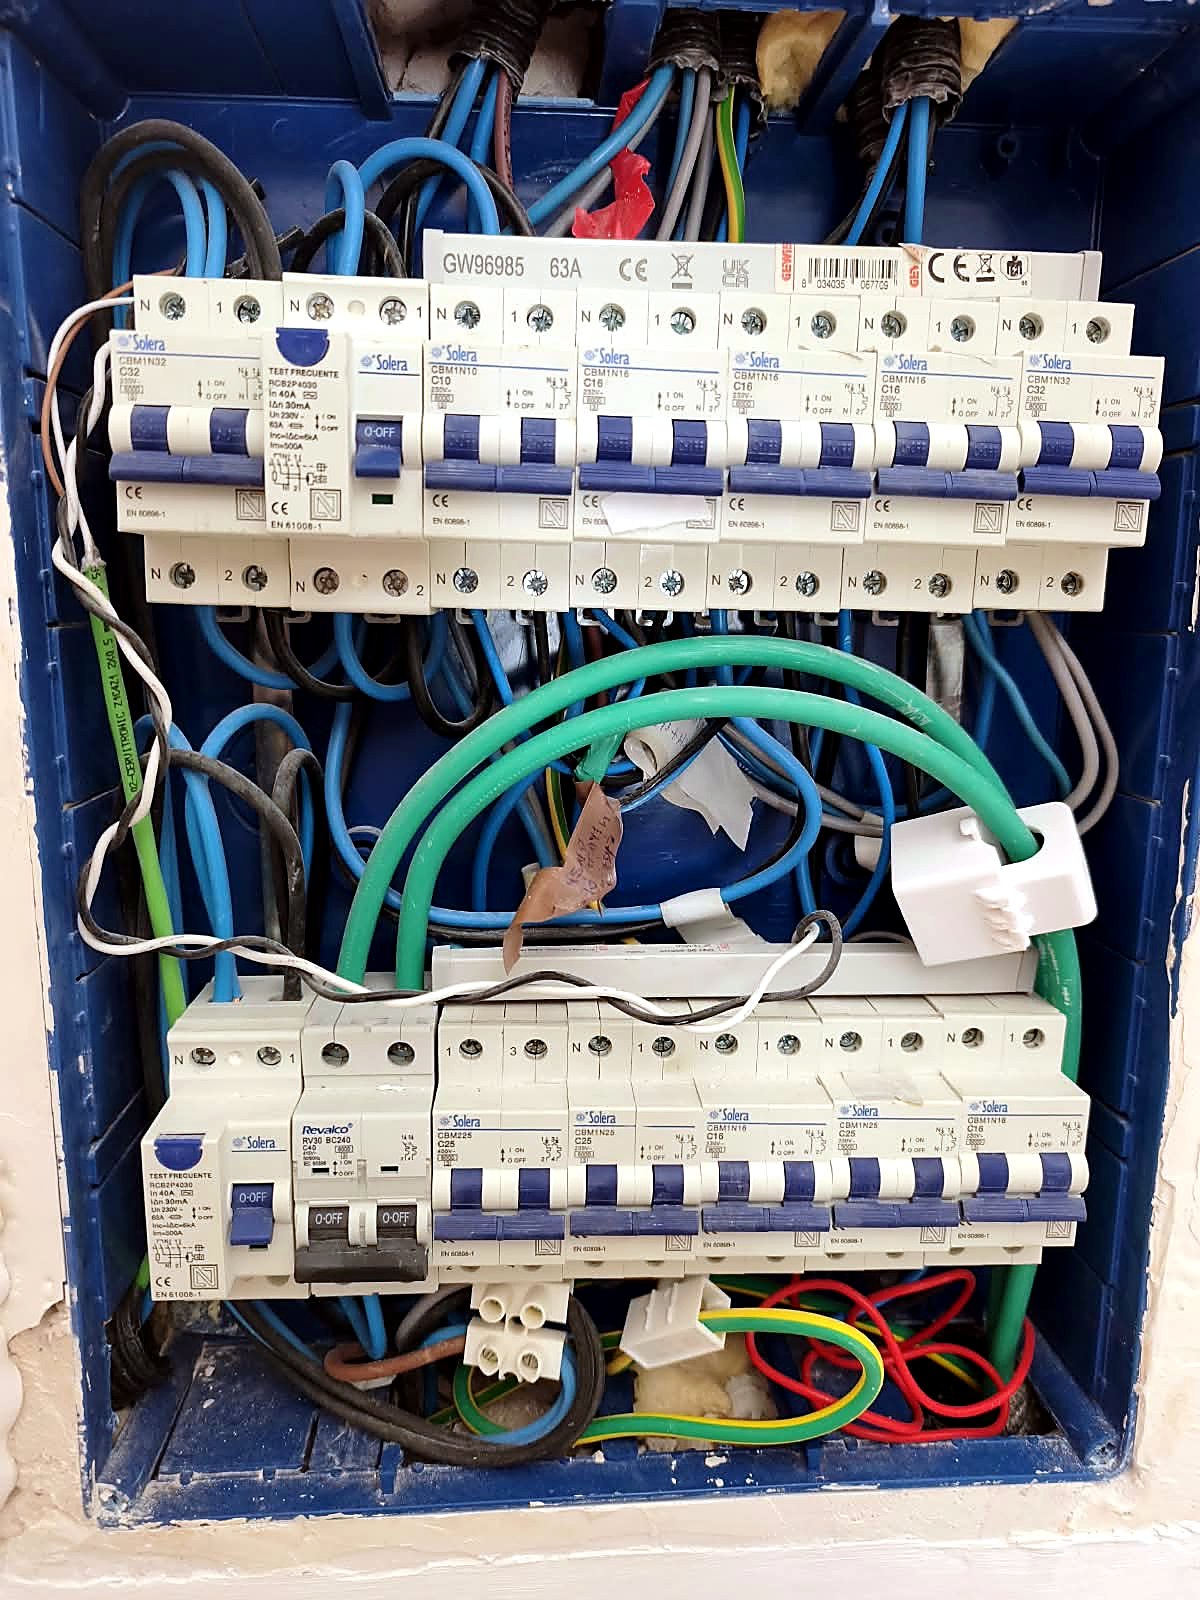
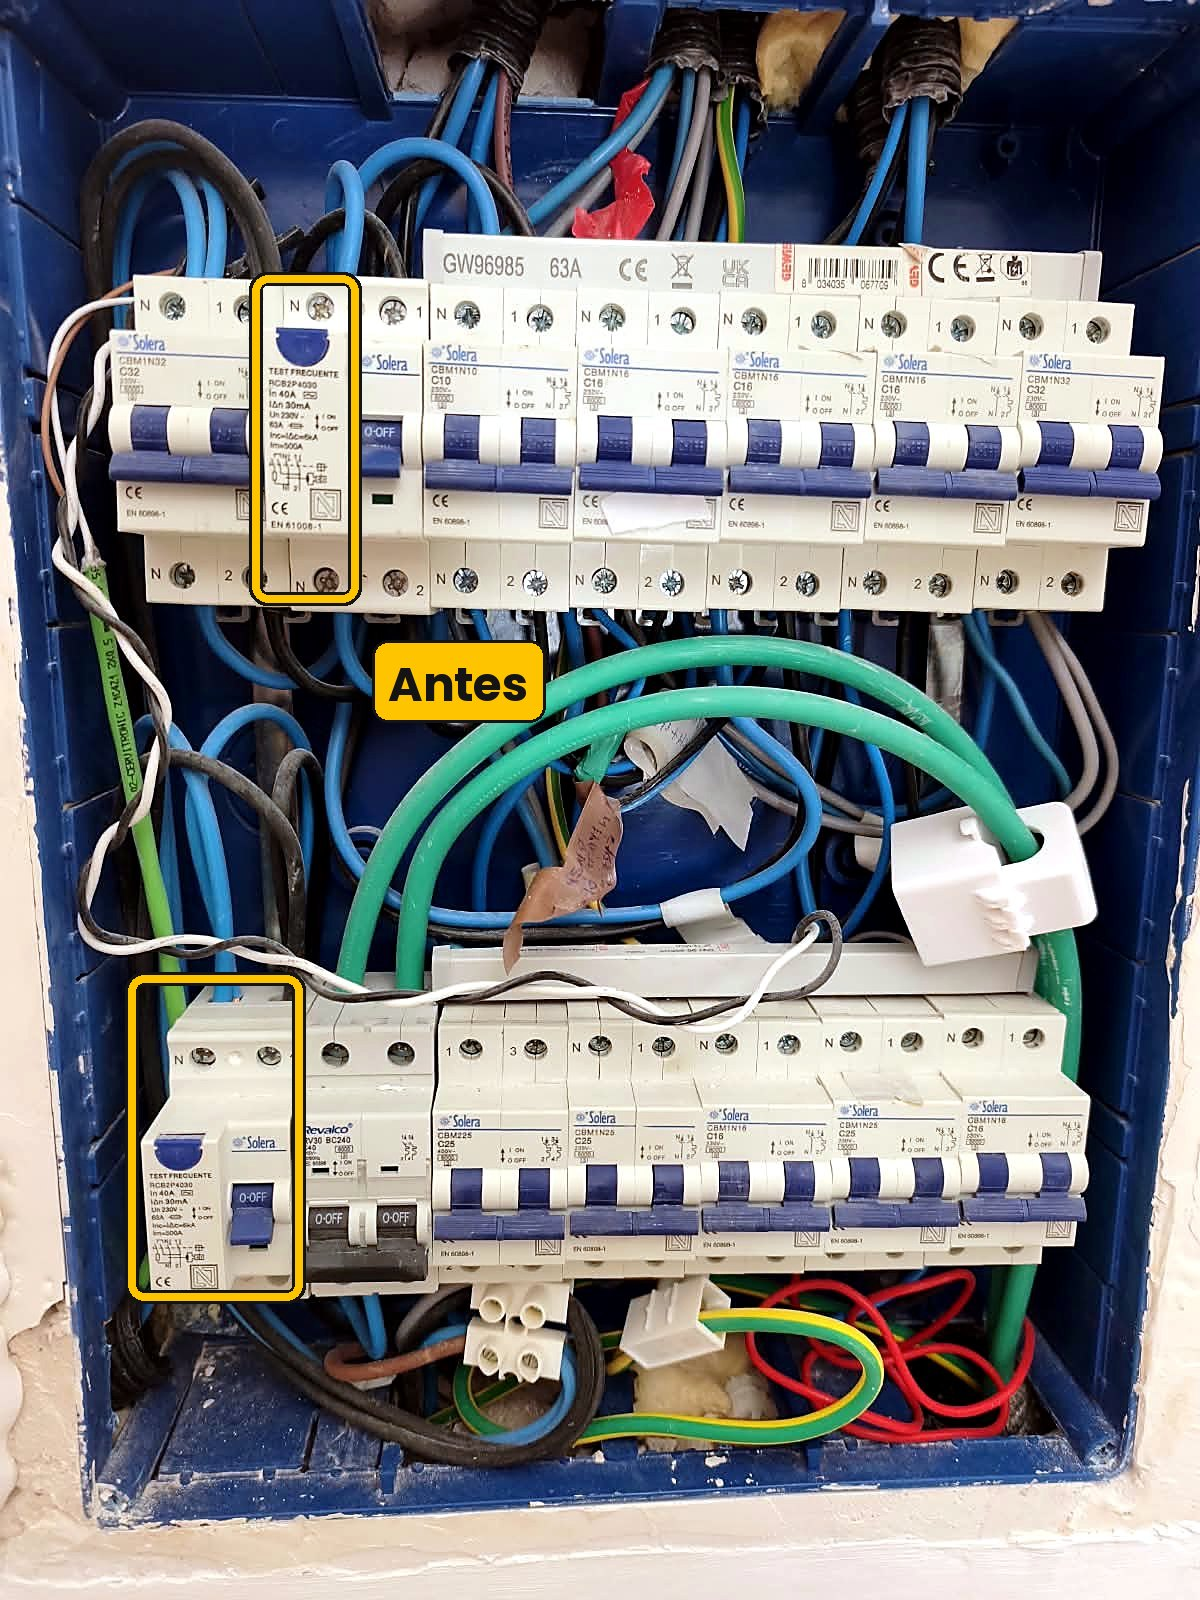
Trabajo de diferenciales: fotos con los diferenciales cambiados marcados en amarillo
Claude-Session: https://claude.ai/code/session_01HJToRjiqYZv5iTtQP7aZ9M

Changed region(s): [[0.0925, 0.5938, 0.2775, 0.8125], [0.185, 0.1562, 0.3083, 0.4062], [0.3083, 0.375, 0.4625, 0.4688]]

diff --git a/fuente/contenido/trabajos/diferenciales-superinmunizados-oropesa.md b/fuente/contenido/trabajos/diferenciales-superinmunizados-oropesa.md
@@ -18,11 +18,11 @@ Revisamos el cuadro y sustituimos los dos diferenciales (40 A, 30 mA) por difere
 
 ![Cuadro antes del cambio, con los diferenciales estándar](diferenciales-antes.jpg)
 
-*Antes: diferenciales estándar.*
+*Antes: los dos diferenciales estándar, marcados en amarillo.*
 
 ![Cuadro después del cambio, con los diferenciales superinmunizados](diferenciales-despues.jpg)
 
-*Después: diferenciales superinmunizados (clase SI).*
+*Después: los dos diferenciales superinmunizados (clase SI), en el mismo sitio.*
 
 ## Por qué un superinmunizado
 
